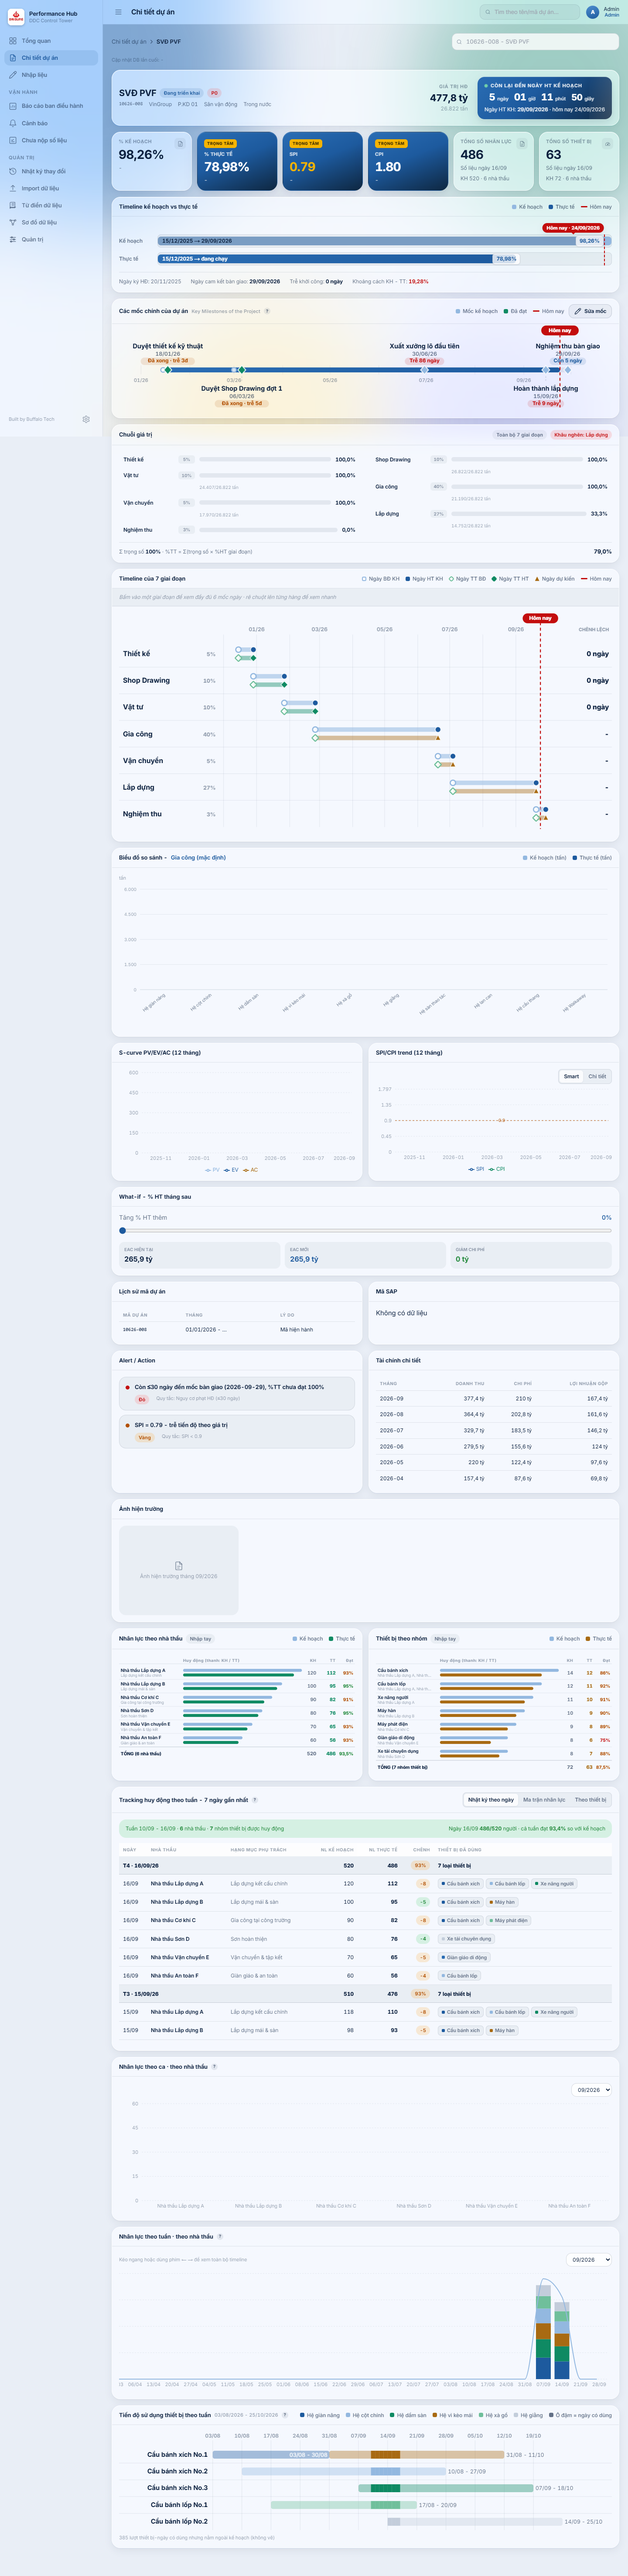
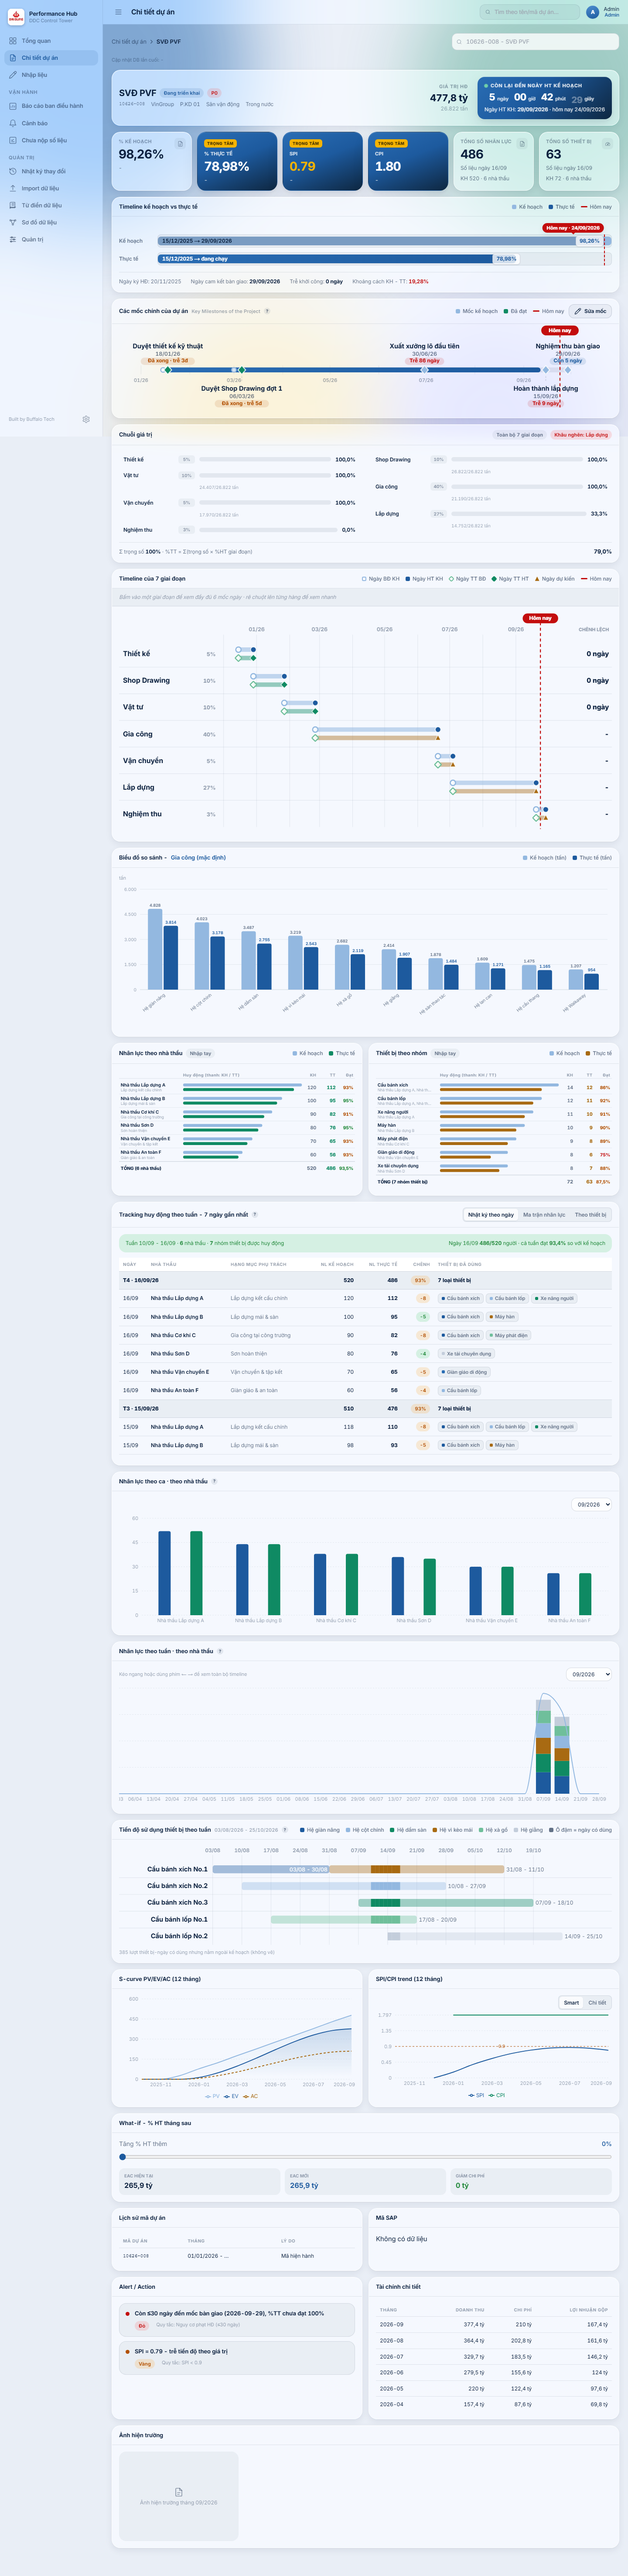
fix(p2b): the Chuoi gia tri theo mock-up - chup lai anh after-* + noi chip StageExplorer
Vong sua 1 muc 4 (danh-gia.md) da duoc trien khai xong qua cac commit
cdd5733/84b6760/c61fa61 (bo the EVM, the rong het hang 2 cot dung mock-up,
dong tan duoi thanh, dong chan Sigma trong so/%TT, noi chip goc voi
StageExplorer qua StageSelectionContext). Commit nay chi lam not phan con
lai: chup lai 4 anh after-*.png cho khop bo cuc trang sau khi c61fa61 doi
thu tu cac cum the (anh cu trong 84b6760 chup truoc khi doi thu tu nen
lech), va ghi chu quy trinh chup (dang nhap that qua form, khong co bypass
auth) vao thay-doi.md.

tsc sach, npm test 1109/1109.

diff --git a/.bangiao/thay-doi.md b/.bangiao/thay-doi.md
@@ -259,3 +259,20 @@ P2A↔P2B, bảo mật script dev, việc nhỏ khác) — đúng chỉ định 
      `116px 38px 1fr auto`, 4 cột) mà không cập nhật số cột, dòng tấn có thể lệch khỏi cột thanh.
   4. Không đổi `detail.evmMetrics` (key i18n) dù không còn nơi dùng — giữ nguyên theo tiền lệ đã có ở mục "Lệch kế
      hoạch" số 4 (giữ `detail.manpowerTrend`), không dọn dẹp ngoài phạm vi.
+
+## Vòng sửa 1 — bổ sung (điều phối viên, theo yêu cầu chủ dự án 2026-09-24)
+
+- Commit `c61fa61`: trang Chi tiết dự án — dời nguyên cụm **S-curve PV/EV/AC + SPI/CPI trend + What-if** và cụm
+  **Lịch sử mã + Mã SAP + Alert/Action + Tài chính chi tiết + Ảnh hiện trường** xuống **cuối trang** (sau Gantt thiết bị),
+  giữ nguyên thứ tự nội bộ. Chỉ đổi vị trí JSX trong `app/[locale]/(app)/projects/[id]/page.tsx`, không đổi logic/quyền.
+  Thứ tự mới: Header → KPI → Timeline KH/TT → Các mốc chính → Chuỗi giá trị + Timeline 7 giai đoạn → Nguồn lực → Theo dõi
+  tuần → Chart ca → Chart tuần → Gantt → S-curve/SPI-CPI → What-if → Lịch sử mã/SAP → Alert/Tài chính → Ảnh.
+  tsc sạch, npm test 1109/1109.
+- **Ảnh `after-*.png` được chụp lại** (không đổi code) sau commit `c61fa61` ở trên: 4 ảnh cũ trong `84b6760` chụp
+  trước khi trang đổi thứ tự nên không còn khớp bố cục hiện tại. Quy trình chụp lại: `npm install`/`npm ci` +
+  `npx prisma generate` (khôi phục `node_modules`/Prisma client sạch sau sự cố nêu ở "Lệch/rủi ro" #2) → khởi động
+  lại `npm run dev -- -p 3001` → đăng nhập `admin@daidung.com.vn` qua form (không có bypass auth cho Playwright) →
+  chụp `/vi/projects/1` ở `1440×1000` và `390×900`, cả full page lẫn crop riêng thẻ "Chuỗi giá trị"
+  (`.valueChainCard`). Ảnh mới xác nhận: thẻ rộng hết hàng, 2 cột đúng thứ tự, chip "Khâu nghẽn: Lắp dựng" +
+  thanh Lắp dựng tô cam, dòng chân "Σ trọng số 100% · %TT = Σ(...)" / 79,0%, và ở 390px xuống đúng 1 cột không bị
+  che — khớp bố cục trang đã sắp xếp lại theo `c61fa61`.
